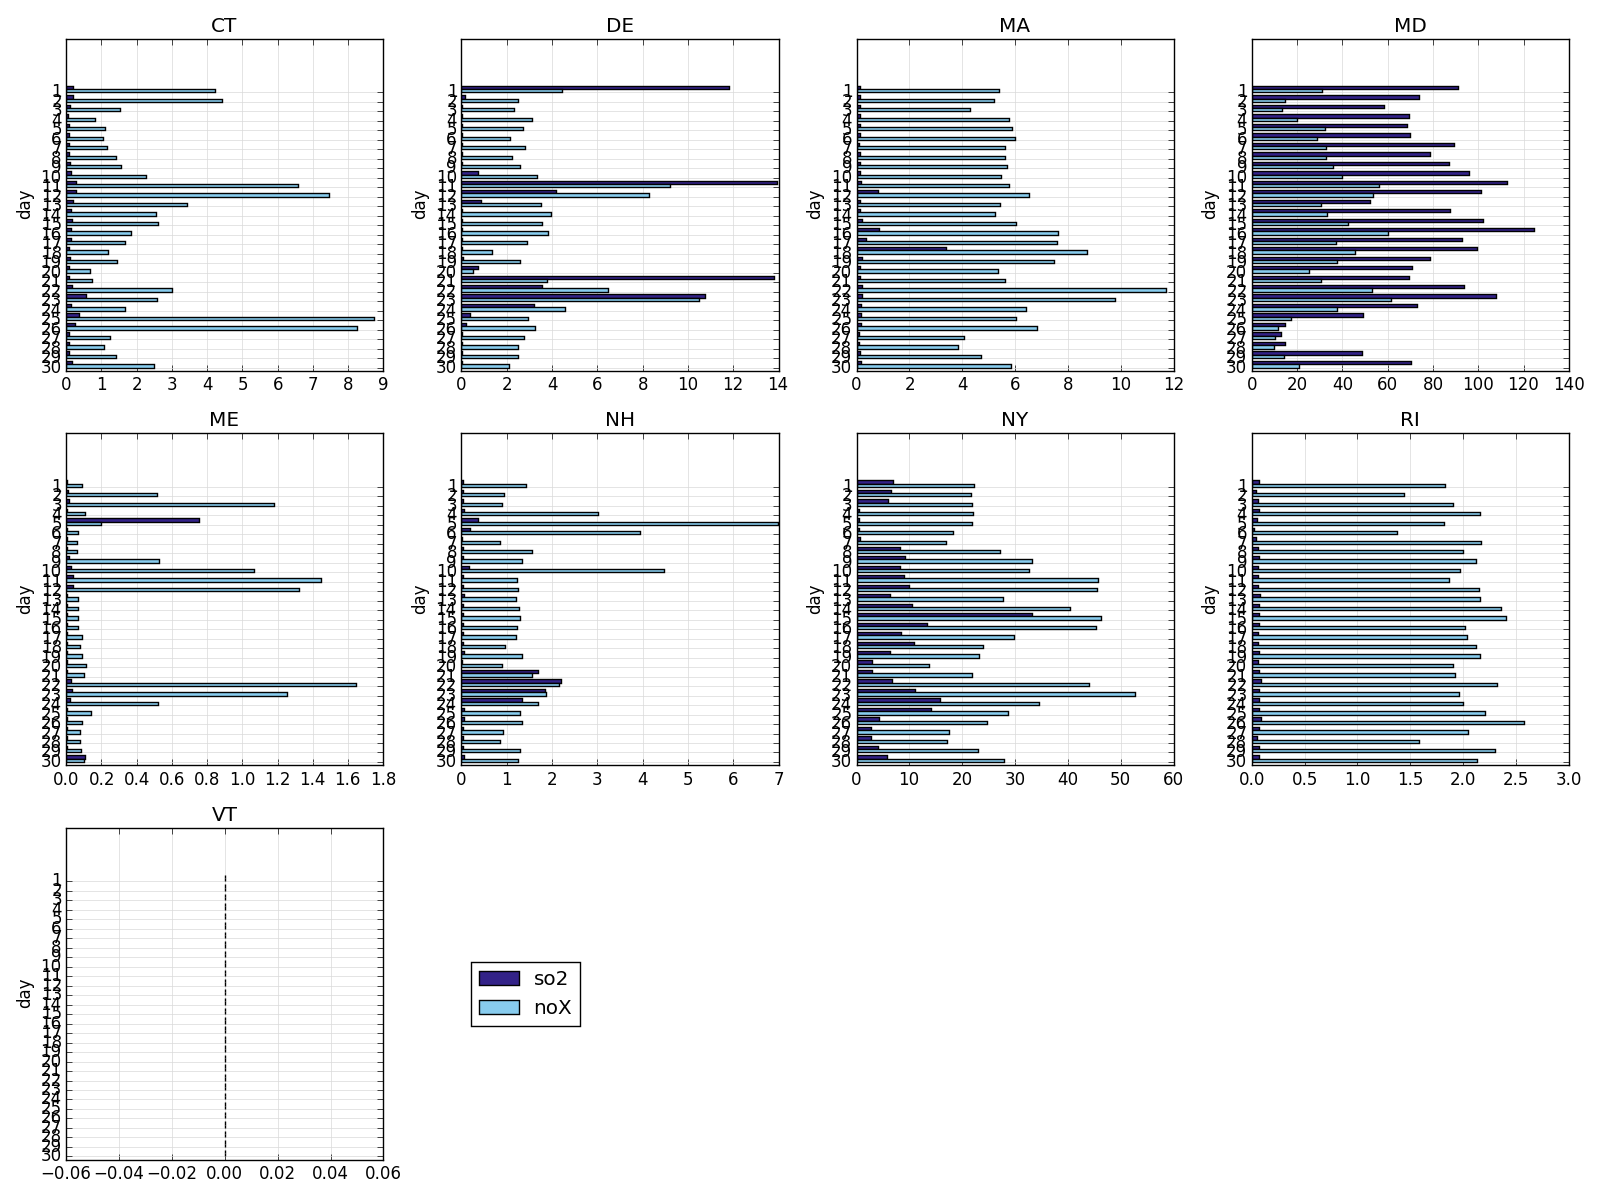
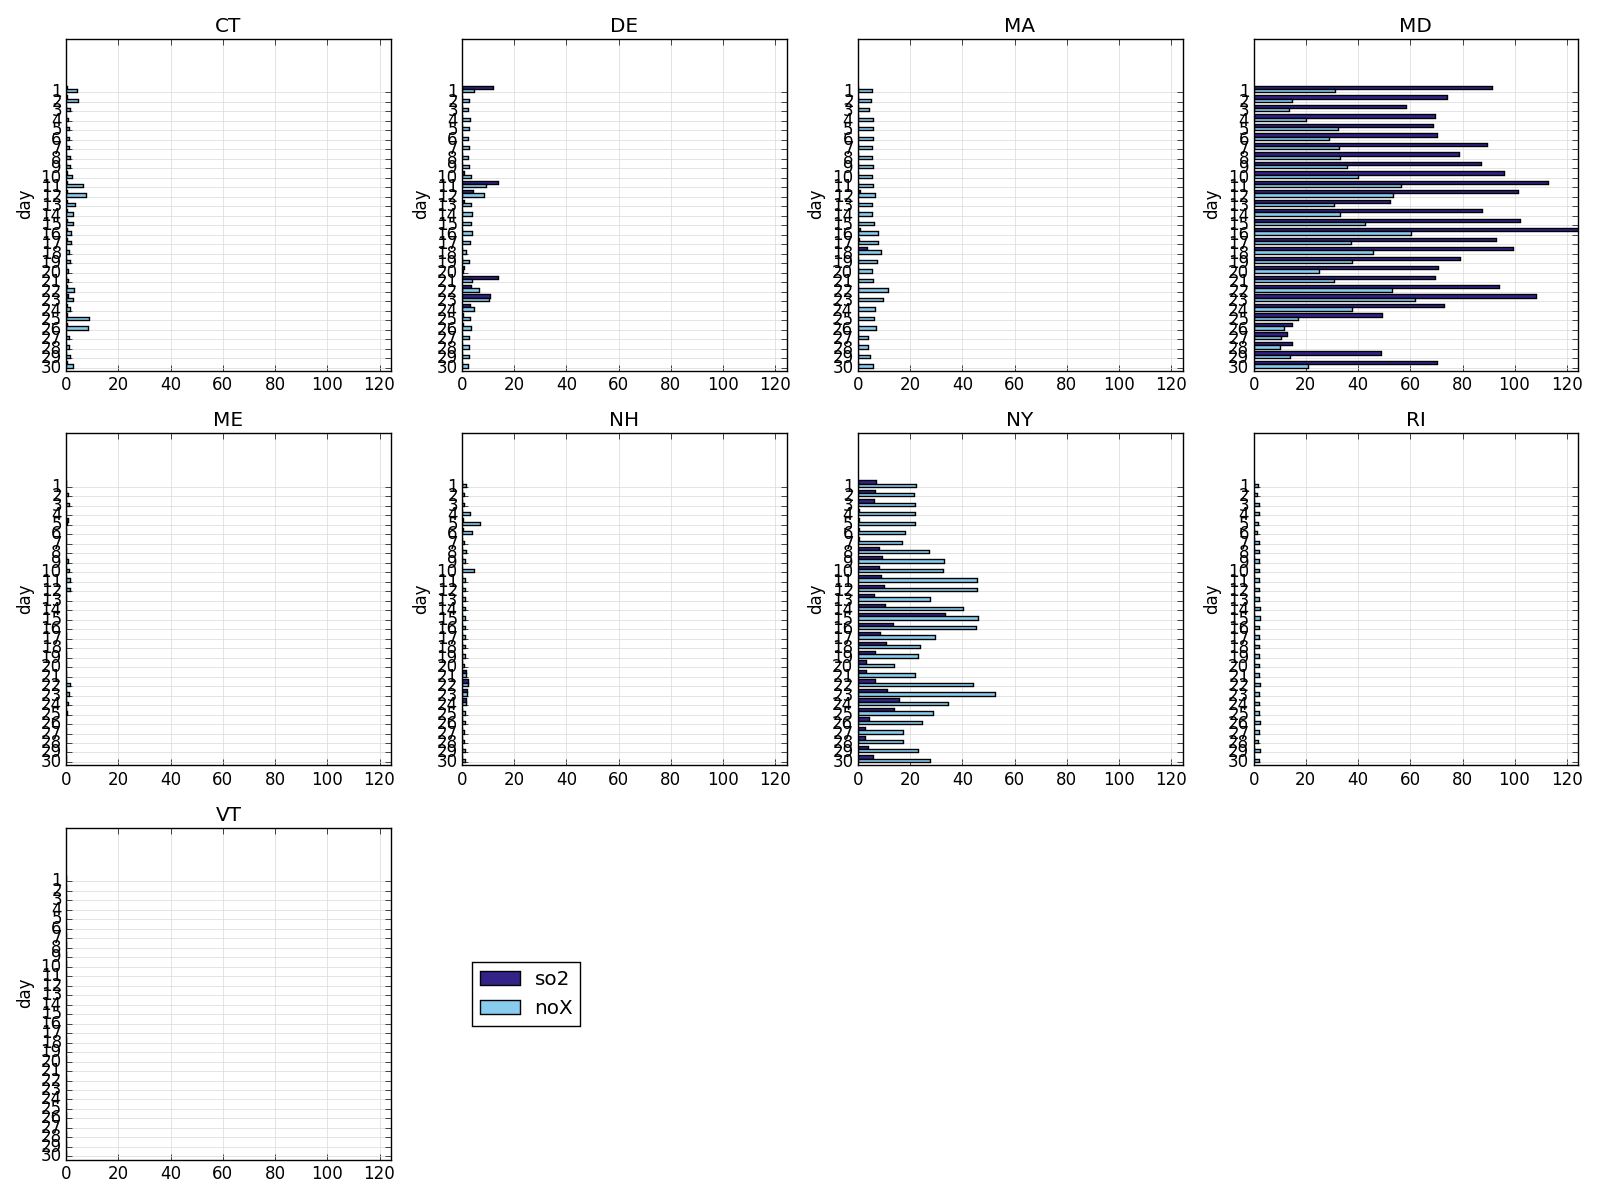
Fix scales for small multiples. Closes #23.

diff --git a/agatecharts/tableset.py b/agatecharts/tableset.py
@@ -67,6 +67,21 @@ class TableSetCharts(object):
 
         pyplot.figure(figsize=size, dpi=dpi)
 
+        # Compute max domain of all tables so they can be placed on the same axes
+        x_min = 0
+        x_max = 0
+        y_min = 0
+        y_max = 0
+
+        for table in self.values():
+            table_x_min, table_x_max = chart.get_x_domain(table)
+            table_y_min, table_y_max = chart.get_y_domain(table)
+
+            x_min = min(x_min, table_x_min)
+            x_max = max(x_max, table_x_max)
+            y_min = min(y_min, table_y_min)
+            y_max = max(y_max, table_y_max)
+
         i = 0
 
         for i, (key, table) in enumerate(self.items()):
@@ -78,6 +93,13 @@ class TableSetCharts(object):
 
             pyplot.grid(b=True, which='major', color='0.85', linestyle='-')
             axes.set_axisbelow(True)
+
+            # matplotlib won't accept Decimal for limit values
+            if x_min is not None and x_max is not None:
+                axes.set_xlim(float(x_min), float(x_max))
+
+            if y_min is not None and y_max is not None:
+                axes.set_ylim(float(y_min), float(y_max))
 
         if chart.show_legend():
             axes = pyplot.subplot(grid_rows, grid_columns, i + 2)

diff --git a/agatecharts/charts/lines.py b/agatecharts/charts/lines.py
@@ -17,6 +17,18 @@ class Lines(Chart):
     def show_legend(self):
         return len(self._y_column_names) > 1
 
+    def get_x_domain(self, table):
+        x_min = min(table.columns[self._x_column_name])
+        x_max = max(table.columns[self._x_column_name])
+
+        return (x_min, x_max)
+
+    def get_y_domain(self, table):
+        y_min = min([min(table.columns[name]) for name in self._y_column_names])
+        y_max = max([max(table.columns[name]) for name in self._y_column_names])
+
+        return (y_min, y_max)
+
     def plot(self, table, axes):
         colors = Qualitative()
         legend_lines = []

diff --git a/agatecharts/charts/scatter.py b/agatecharts/charts/scatter.py
@@ -12,6 +12,18 @@ class Scatter(Chart):
     def show_legend(self):
         return False
 
+    def get_x_domain(self, table):
+        x_min = min(table.columns[self._x_column_name])
+        x_max = max(table.columns[self._x_column_name])
+
+        return (x_min, x_max)
+
+    def get_y_domain(self, table):
+        y_min = min(table.columns[self._y_column_name])
+        y_may = max(table.columns[self._y_column_name])
+
+        return (y_min, y_may)
+
     def plot(self, table, axes):
         x_column = table.columns[self._x_column_name]
         y_column = table.columns[self._y_column_name]

diff --git a/agatecharts/charts/columns.py b/agatecharts/charts/columns.py
@@ -17,6 +17,15 @@ class Columns(Chart):
     def show_legend(self):
         return len(self._value_column_names) > 1
 
+    def get_x_domain(self, table):
+        return (None, None)
+
+    def get_y_domain(self, table):
+        y_min = min([min(table.columns[name].get_data_without_nulls()) for name in self._value_column_names])
+        y_max = max([max(table.columns[name].get_data_without_nulls()) for name in self._value_column_names])
+
+        return y_min, y_max
+
     def plot(self, table, axes):
         label_column = table.columns[self._label_column_name]
 

diff --git a/agatecharts/charts/bars.py b/agatecharts/charts/bars.py
@@ -17,6 +17,15 @@ class Bars(Chart):
     def show_legend(self):
         return len(self._value_column_names) > 1
 
+    def get_x_domain(self, table):
+        x_min = min([min(table.columns[name].get_data_without_nulls()) for name in self._value_column_names])
+        x_max = max([max(table.columns[name].get_data_without_nulls()) for name in self._value_column_names])
+
+        return x_min, x_max
+
+    def get_y_domain(self, table):
+        return (None, None)
+
     def plot(self, table, axes):
         label_column = table.columns[self._label_column_name]
 

diff --git a/agatecharts/charts/base.py b/agatecharts/charts/base.py
@@ -11,6 +11,18 @@ class Chart(object):
         """
         raise NotImplementedError
 
+    def get_x_domain(self, table):
+        """
+        Compute the x domain for this chart type for a given table.
+        """
+        raise NotImplementedError
+
+    def get_y_domain(self, table):
+        """
+        Compute the y domain for this chart type for a given table.
+        """
+        raise NotImplementedError
+
     def plot(self, table, axes):
         """
         Subclasses implement this method to draw a single chart, regardless of
